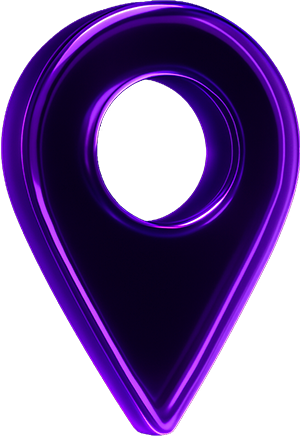
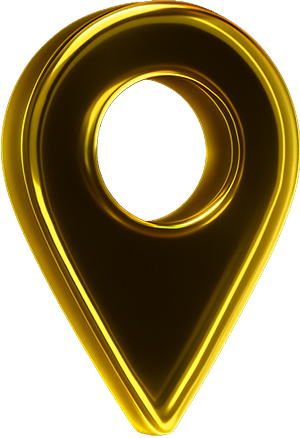
update fonts and images

diff --git a/src/app/layout.tsx b/src/app/layout.tsx
@@ -1,12 +1,12 @@
 import type { Metadata } from 'next'
-import { Inter } from 'next/font/google'
+import { Lato } from 'next/font/google'
 import './globals.css'
 import Navbar from '@/components/navbar'
 
-const inter = Inter({
-  variable: '--font-inter',
+const lato = Lato({
+  variable: '--font-lato',
   subsets: ['latin'],
-  weight: ['400', '700', '900'],
+  weight: ['300', '400', '700', '900'],
 })
 
 const siteTitle = 'Electronic Cash Conference 2025 | Barcelona'
@@ -48,7 +48,7 @@ export default function RootLayout({
 }>) {
   return (
     <html lang="en">
-      <body className={`${inter.variable} antialiased`}>
+      <body className={`${lato.variable} antialiased`}>
         <Navbar />
         {children}
       </body>

diff --git a/src/app/page.tsx b/src/app/page.tsx
@@ -12,7 +12,7 @@ export default function Home() {
               <br />
               CONFERENCE
               <br />
-              <span className="font-normal">BARCELONA</span>
+              <span className="font-light">BARCELONA</span>
             </h1>
 
             <div className="text-pop mt-4 text-2xl tracking-[12px] md:text-5xl">
@@ -29,7 +29,7 @@ export default function Home() {
 
           <div className="relative z-7 flex h-[350px] items-center justify-center lg:h-[620px]">
             <img
-              src="/hero.png"
+              src="/hero-2.png"
               alt="Electronic Cash Logo"
               className="max-h-full max-w-full"
             />

diff --git a/src/app/globals.css b/src/app/globals.css
@@ -23,7 +23,7 @@
 body {
   background: var(--background);
   color: var(--text);
-  font-family: var(--font-inter), sans-serif;
+  font-family: var(--font-lato), sans-serif;
   font-weight: 400;
 }
 
